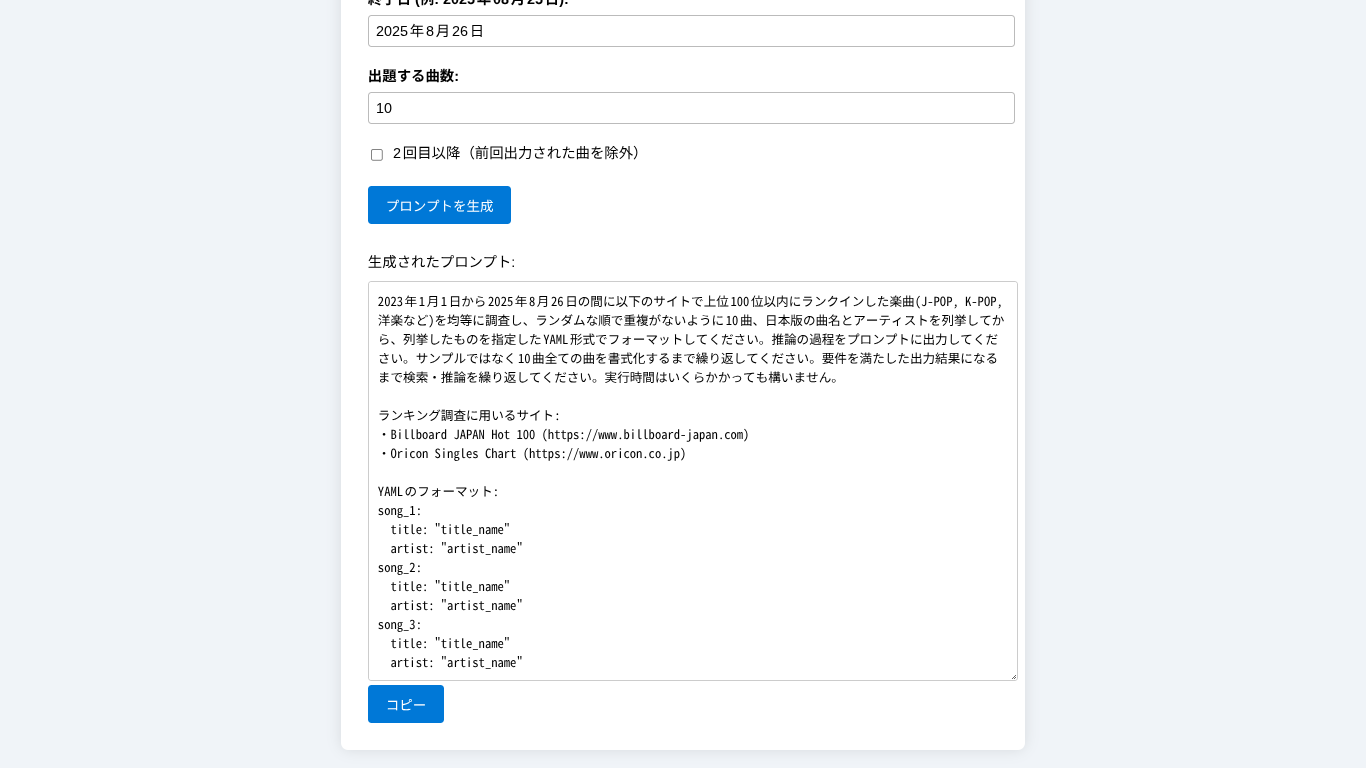
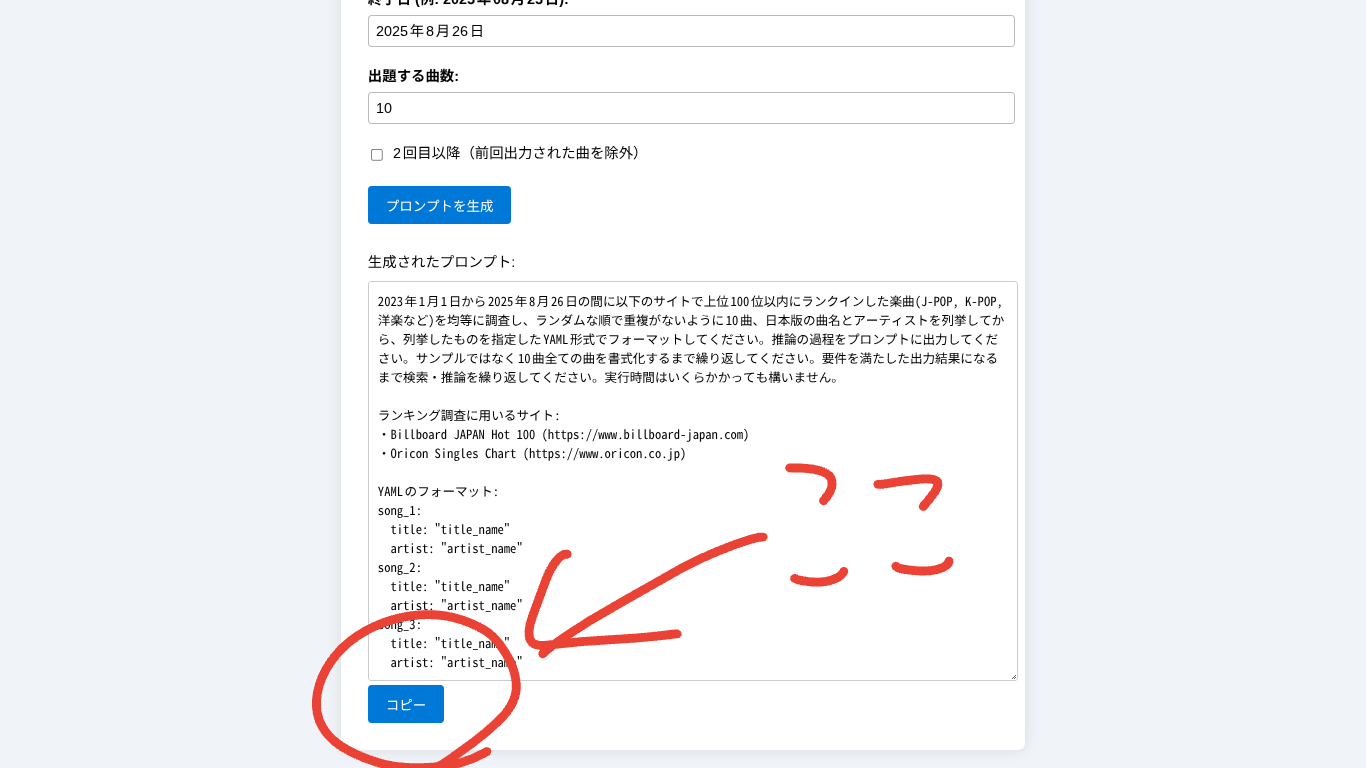
使用方法の解説のスクショを付け足しをしたスクショで置換

diff --git a/docs/manual.md b/docs/manual.md
@@ -1,7 +1,16 @@
 # 使用方法
 
 ## 1. サイトを開く
-![トップページ](top_page.png)
-ブラウザで[ツールのウェブサイト](https://pw56.github.io/intro-quiz/)を開く
+![トップページ](photo/top_page.png)
+ブラウザで[ツールのウェブサイト](https://pw56.github.io/intro-quiz/)を開く。
 
 ## 2. プロンプトの文章を作成
+![プロンプト作成_入力](photo/generator.png)
+「プロンプト生成器」を開く。
+ツールにイントロクイズに出題する曲の範囲や数を入力する。
+![プロンプト作成_コピー](photo/generator_copy.png)
+ページを下までスクロールし、出力されたプロンプトの文章をコピーする。
+
+**※2回目以降は「2回目以降（前回出力された曲を除外）」にチェックを入れる**
+![プロンプト作成_コピー_2回目以降](photo/generator_copy_twice.png)
+
